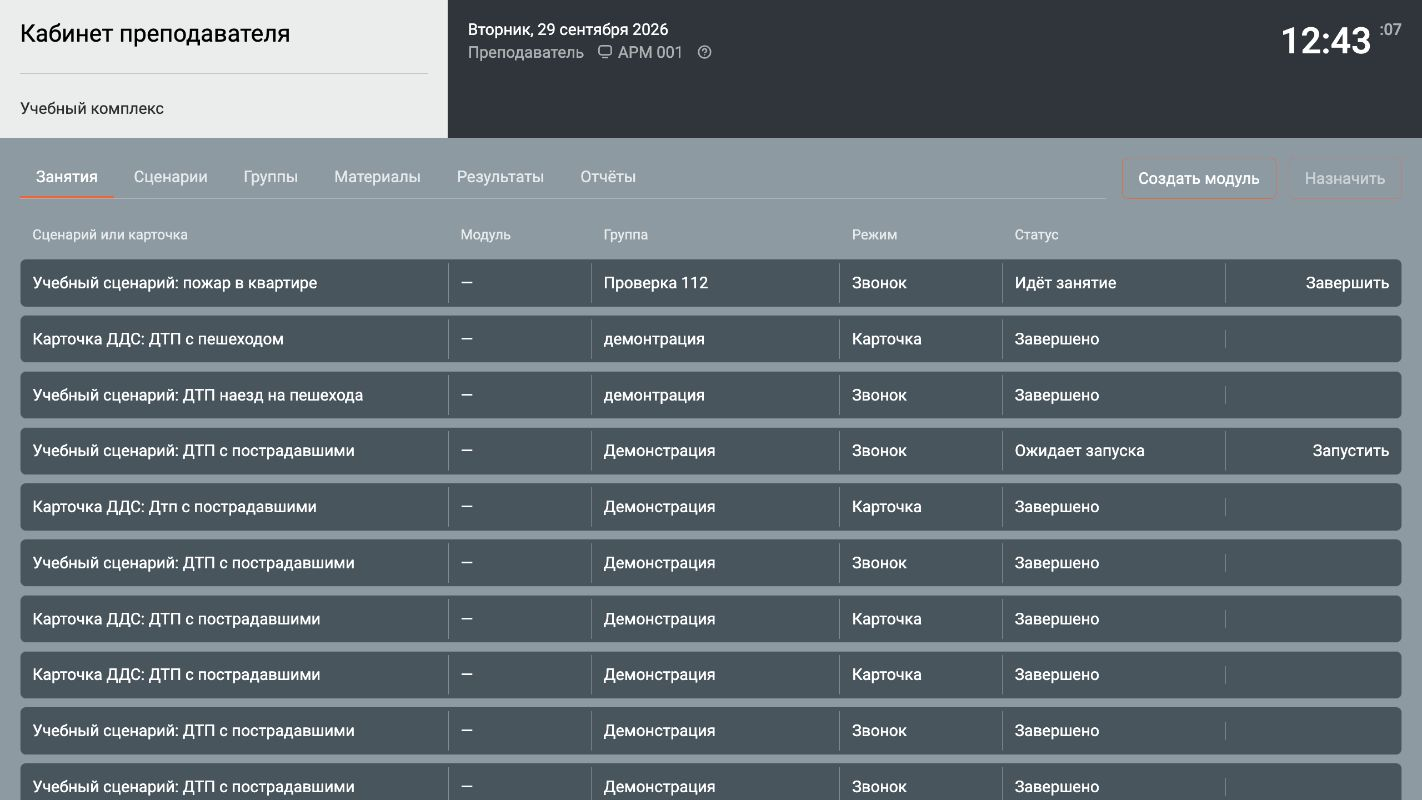
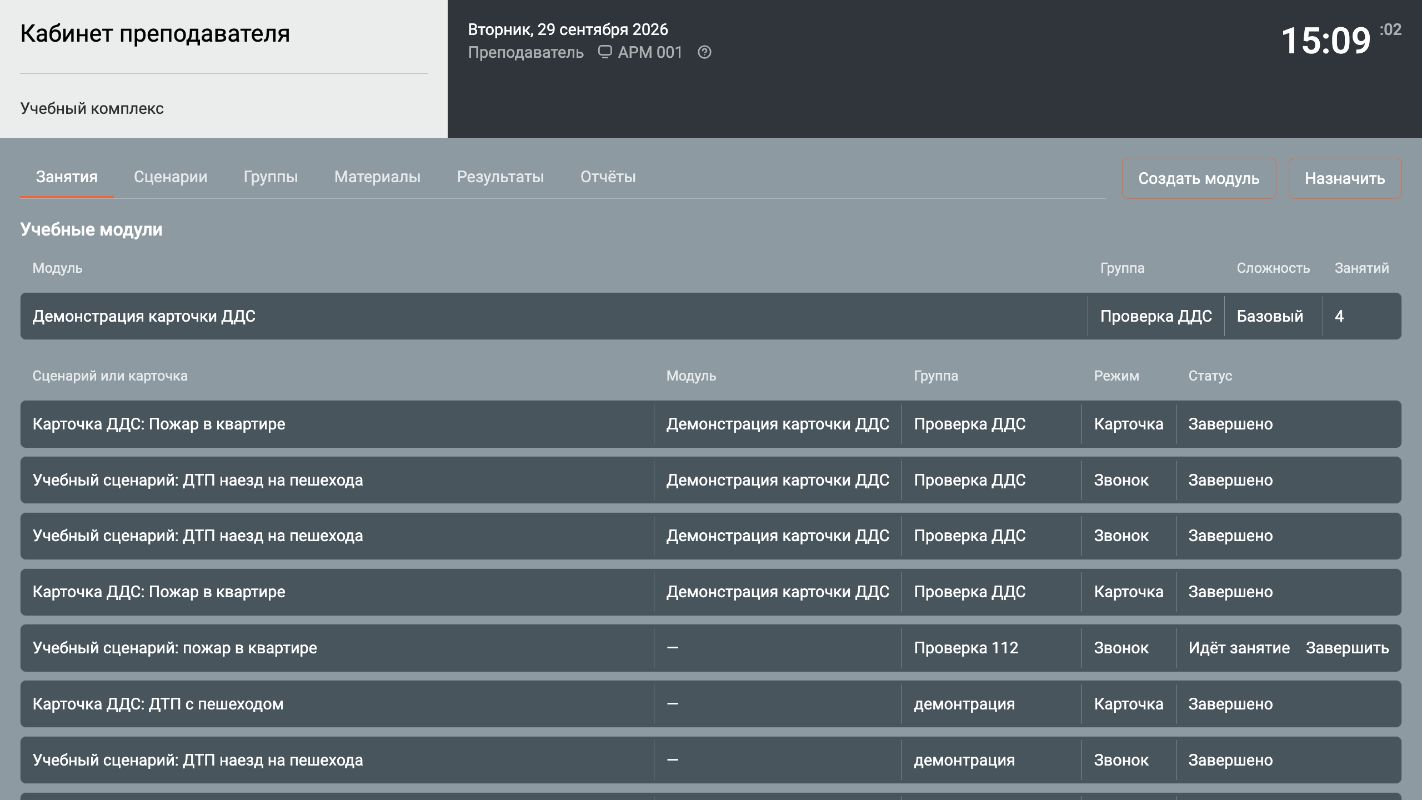
docs: update screenshots

Changed region(s): [[0.0, 0.2812, 0.9902, 1.0], [0.8973, 0.2188, 0.9902, 0.25], [0.8973, 0.0312, 0.9592, 0.0625]]

diff --git a/README.md b/README.md
@@ -28,55 +28,67 @@
 
 ### 1.1 Рабочие места
 
+Вход выполняется по логину, паролю и номеру АРМ.
+
+![Вход в учебный комплекс](docs/images/login.jpg)
+
+*Рисунок 1 — Вход в учебный комплекс.*
+
 Обучающийся принимает входящий учебный звонок в рабочем месте оператора 112.
 
 ![Входящий звонок оператору 112](docs/images/incoming-call.jpg)
 
-*Рисунок 1 — Входящий учебный звонок.*
+*Рисунок 2 — Входящий учебный звонок.*
 
 После принятия звонка обучающийся заполняет карточку происшествия.
 
 ![Карточка оператора 112](docs/images/operator-card.jpg)
 
-*Рисунок 2 — Карточка оператора 112.*
+*Рисунок 3 — Карточка оператора 112.*
+
+Уточняющие поля зависят от выбранного типа происшествия.
+
+![Уточнения типа происшествия в карточке оператора](docs/images/operator-questions.jpg)
+
+*Рисунок 4 — Уточнения происшествия.*
 
 Поступившие и завершённые происшествия отображаются в общем списке.
 
 ![Список происшествий](docs/images/incident-list.jpg)
 
-*Рисунок 3 — Список происшествий.*
+*Рисунок 5 — Список происшествий.*
 
 Диспетчер ДДС получает готовую карточку. Телефон, сведения о заявителе, адрес, происшествие и статус своей службы находятся на одном экране.
 
 ![Карточка диспетчера ДДС](docs/images/dds-workplace.jpg)
 
-*Рисунок 4 — Карточка диспетчера ДДС.*
+*Рисунок 6 — Карточка диспетчера ДДС.*
 
 Преподаватель назначает занятия группе и контролирует их выполнение.
 
 ![Занятия в кабинете преподавателя](docs/images/instructor-lessons.jpg)
 
-*Рисунок 5 — Занятия преподавателя.*
+*Рисунок 7 — Занятия преподавателя.*
 
 Сценарии создаются и утверждаются в кабинете преподавателя. При изменении сценария можно уточнить сведения заявителя и критерии оценки.
 
 ![Сценарии преподавателя](docs/images/instructor-scenarios.jpg)
 
-*Рисунок 6 — Список сценариев.*
+*Рисунок 8 — Список сценариев.*
 
 ![Редактирование сценария](docs/images/scenario-editor.jpg)
 
-*Рисунок 7 — Редактирование сценария.*
+*Рисунок 9 — Редактирование сценария.*
 
 Администратор управляет учётными записями и просматривает состояние комплекса.
 
 ![Пользователи комплекса](docs/images/admin-workplace.jpg)
 
-*Рисунок 8 — Учётные записи.*
+*Рисунок 10 — Учётные записи.*
 
 ![Состояние комплекса](docs/images/system-status.jpg)
 
-*Рисунок 9 — Состояние сервисов.*
+*Рисунок 11 — Состояние сервисов.*
 
 ## 2 Условия работы
 
